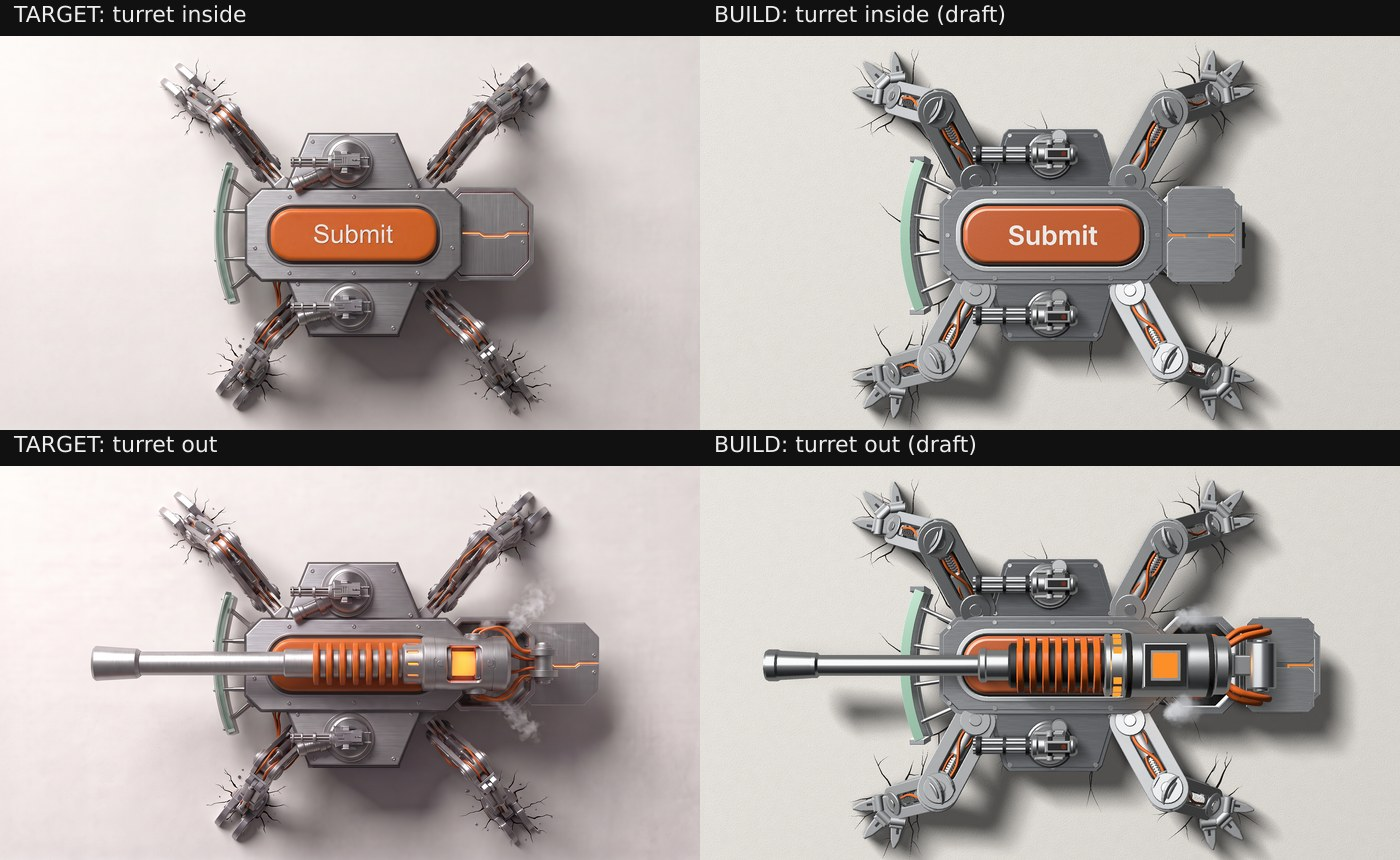
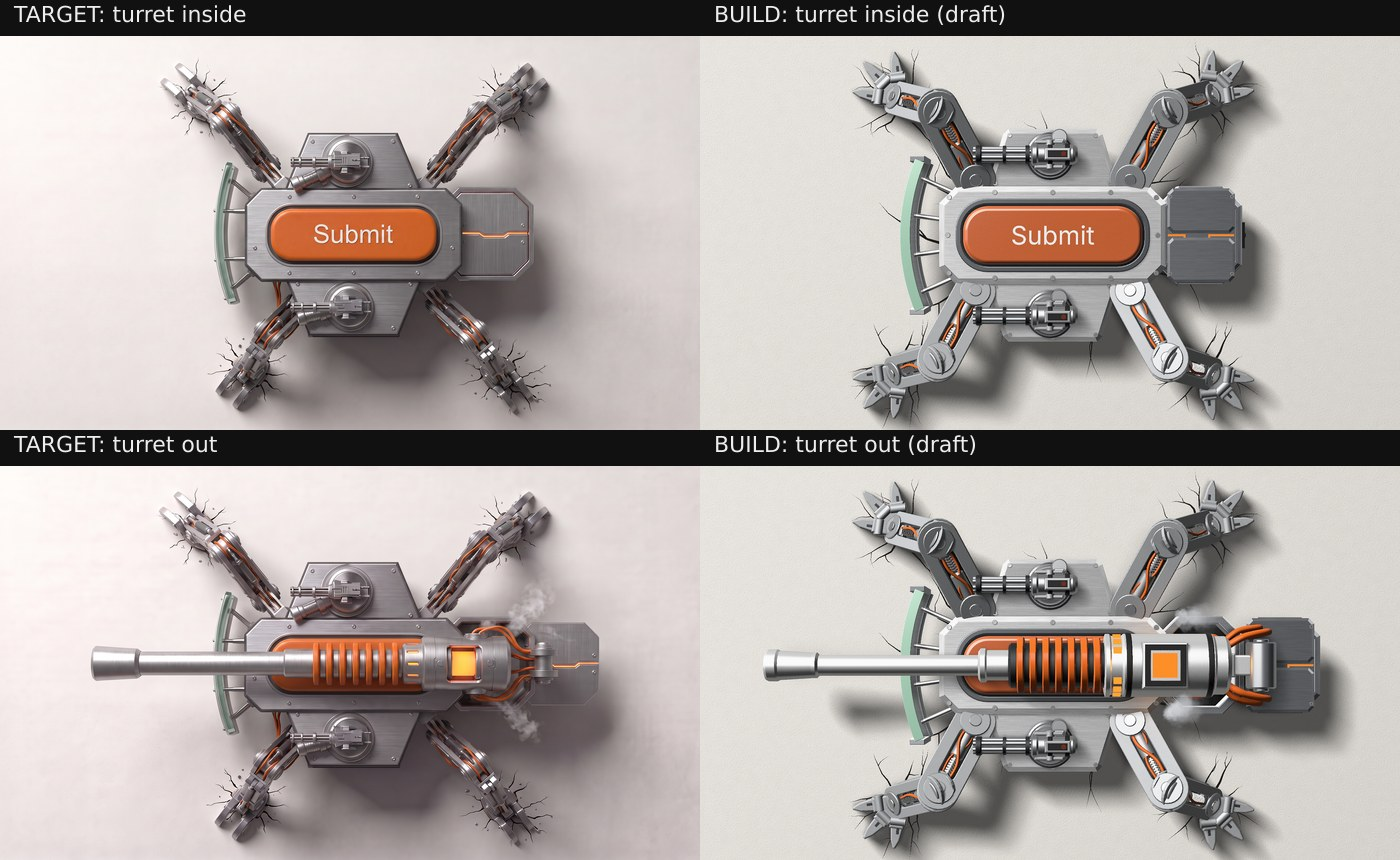
bosslook: chamfered plates that catch the key, lighter cannon, hatch lids that open red on the flank, film size sheet

Changed region(s): [[0.5221, 0.6349, 0.9521, 0.907], [0.645, 0.1512, 0.8907, 0.393]]

diff --git a/src/boss/look1/model.ts b/src/boss/look1/model.ts
@@ -1,6 +1,6 @@
 import * as THREE from 'three'
 import { roundedRect, sweep, plateProfile } from '../../shell/solids'
-import { across, along, blot, boxAt, crackStar, cutPlate, discAt, glowMaterial, hose, joined, lathe, lookKit, mesh, oct, pillOutline, plateAt, ringPlate, rod, screw, turnedAt, type V3 } from './kit'
+import { across, along, blot, boxAt, chamfer, crackStar, cutPlate, discAt, glowMaterial, hose, joined, lathe, lookKit, mesh, oct, pillOutline, plateAt, ringPlate, rod, screw, turnedAt, type V3 } from './kit'
 
 // Everything here is in the units of the target sheets (px of the 1920 wide pictures), forward along +x, z up from the ground, the hull's centre over the origin.
 
@@ -19,6 +19,9 @@ export interface Model {
   bay: THREE.Group
   shield: THREE.Group
   shieldGlass: THREE.Mesh
+  lids: THREE.Mesh[]
+  slab: THREE.Mesh
+  hatchSeam: THREE.Mesh
   shieldEdge: THREE.Mesh
   own: THREE.Material[]
   damage: [THREE.Group, THREE.Group, THREE.Group]
@@ -44,10 +47,7 @@ function hullGeo(): { plate: THREE.BufferGeometry; dark: THREE.BufferGeometry; t
   const { hx, hy, c, top, tall, belly } = HULL
   const bezelOut = pillOutline(BTN.w + 40, BTN.h + 40, BTN.r + 18)
   const bezelIn = pillOutline(BTN.w + 12, BTN.h + 12, BTN.r + 5)
-  const plate = joined([
-    plateAt(oct(hx, hy, c), top - tall, top - 5, 3),
-    plateAt(oct(hx - 11, hy - 11, c - 5), top - 6, top, 2.5)
-  ])
+  const plate = chamfer(oct(hx, hy, c), top - tall, top, 15, 7)
   const dark = joined([
     plateAt(oct(hx - 16, hy - 14, c - 6), belly, top - tall + 1, 5),
     plateAt(oct(hx - 60, hy - 40, 20), belly - 22, belly + 1, 5)
@@ -67,7 +67,7 @@ function wingGeo(side: number): { plate: THREE.BufferGeometry; dark: THREE.Buffe
     const pts: [number, number][] = [[-WING.inner + inset, y0], [WING.inner - inset, y0], [WING.outer - inset * 0.8, y1 - inset - 14], [WING.outer - 14 - inset * 0.8, y1 - inset], [-WING.outer + 14 + inset * 0.8, y1 - inset], [-WING.outer + inset * 0.8, y1 - inset - 14]]
     return side > 0 ? pts : pts.map(([x, y]) => [x, -y] as [number, number]).reverse()
   }
-  const plate = joined([plateAt(shape(0), WING.top - 22, WING.top - 5, 3), plateAt(shape(11), WING.top - 6, WING.top, 2.5)])
+  const plate = chamfer(shape(0), WING.top - 22, WING.top, 13, 6)
   const fins: THREE.BufferGeometry[] = [plateAt(shape(14), WING.top - 70, WING.top - 21, 4)]
   for (let i = 0; i < 6; i++) fins.push(plateAt(shape(8 - (i % 2) * 0), WING.top - 66 + i * 7, WING.top - 63 + i * 7, 1))
   const dark = joined(fins)
@@ -208,11 +208,20 @@ export function buildModel(): Model {
   const hatch = new THREE.Group()
   const seam = glowMaterial(0xff7a1e, 1.6)
   const ho = oct(HATCH.hx - 3, HATCH.hy - 3, HATCH.c - 2)
+  const hatchSeam = mesh(geo('hatch.seam', () => joined([boxAt(-HATCH.hx + 22, -2.6, -4.6, -24, 2.6, -2.4, 0.3), boxAt(-24, -2.6, -4.6, -19, 12, -2.4, 0.3), boxAt(-24, 7, -4.6, 44, 12, -2.4, 0.3), boxAt(40, -2.6, -4.6, 45, 12, -2.4, 0.3), boxAt(40, -2.6, -4.6, HATCH.hx - 22, 2.6, -2.4, 0.3)])), seam, false, false)
   hatch.add(
-    mesh(geo('hatch.plate', () => joined([plateAt(ho, -14, -4, 3), ringPlate(oct(HATCH.hx - 12, HATCH.hy - 12, HATCH.c - 6), oct(HATCH.hx - 19, HATCH.hy - 19, HATCH.c - 9), 3, 0.8).translate(0, 0, -4.4), plateAt(oct(HATCH.hx - 20, 58, 14, 0, -64), -5, 0, 2), plateAt(oct(HATCH.hx - 20, 58, 14, 0, 64), -5, 0, 2)])), kit.hatch),
-    mesh(geo('hatch.seam', () => joined([boxAt(-HATCH.hx + 22, -2.6, -4.6, -24, 2.6, -2.4, 0.3), boxAt(-24, -2.6, -4.6, -19, 12, -2.4, 0.3), boxAt(-24, 7, -4.6, 44, 12, -2.4, 0.3), boxAt(40, -2.6, -4.6, 45, 12, -2.4, 0.3), boxAt(40, -2.6, -4.6, HATCH.hx - 22, 2.6, -2.4, 0.3)])), seam, false, false),
+    mesh(geo('hatch.plate', () => joined([chamfer(ho, -14, -4, 10, 4.5), ringPlate(oct(HATCH.hx - 12, HATCH.hy - 12, HATCH.c - 6), oct(HATCH.hx - 19, HATCH.hy - 19, HATCH.c - 9), 3, 0.8).translate(0, 0, -4.4)])), kit.hatch),
+    hatchSeam,
     mesh(geo('hatch.pins', () => screwsAt([[-80, -100], [80, -100], [-80, 100], [80, 100]], 0, 5, 7)), kit.pin)
   )
+  const weak = glowMaterial(0xff2a12, 0)
+  const lids = [-1, 1].map((side) => {
+    const lid = mesh(geo(`hatch.lid${side}`, () => chamfer(oct(HATCH.hx - 20, 58, 14, 0, side * 64), -5, 0.6, 7, 3)), kit.hatch)
+    hatch.add(lid)
+    return lid
+  })
+  const slab = mesh(geo('hatch.weak', () => boxAt(-HATCH.hx + 26, -22, -5, HATCH.hx - 26, 22, -3.4, 0.3)), weak, false, false)
+  hatch.add(slab)
   hatch.position.set(HATCH.cx, 0, HATCH.top)
   body.add(hatch)
 
@@ -270,15 +279,15 @@ export function buildModel(): Model {
   heat.transparent = true
   heat.opacity = 0
   heat.depthWrite = false
-  root.add(mesh(cg, kit.housing), mesh(c('breechDark'), kit.bed), mesh(c('window'), window, false, false), mesh(c('slit'), slits, false, false), mesh(c('yoke'), kit.joint), mesh(c('hoses'), kit.orange))
+  root.add(mesh(cg, kit.steel), mesh(c('breechDark'), kit.bed), mesh(c('window'), window, false, false), mesh(c('slit'), slits, false, false), mesh(c('yoke'), kit.joint), mesh(c('hoses'), kit.orange))
   const ribs = new THREE.Group()
   ribs.add(mesh(c('ribCore'), kit.dark), mesh(c('ribs'), kit.orange))
   const sleeve = new THREE.Group()
-  sleeve.add(mesh(c('sleeve'), kit.housing))
+  sleeve.add(mesh(c('sleeve'), kit.steel))
   const barrel = new THREE.Group()
   const heatMesh = mesh(c('heat'), heat, false, false)
   heatMesh.scale.set(1, 1.02, 1.02)
-  barrel.add(mesh(c('barrel'), kit.joint), mesh(c('bore'), kit.bore, false, false), mesh(c('glow'), bore, false, false), heatMesh)
+  barrel.add(mesh(c('barrel'), kit.steel), mesh(c('bore'), kit.bore, false, false), mesh(c('glow'), bore, false, false), heatMesh)
   root.add(ribs, sleeve, barrel)
   root.rotation.order = 'ZYX'
   carriage.add(root)
@@ -311,10 +320,9 @@ export function buildModel(): Model {
   d3.visible = false
   body.add(d1, d2, d3)
 
-  const weak = glowMaterial(0xff3a1a, 0)
   const weakLamp = mesh(geo('weak', () => joined([discAt(11, HATCH.cx - HATCH.hx - 2, 0, 128, 140, 2, 18).rotateY(0), boxAt(HATCH.cx - HATCH.hx - 9, -34, 120, HATCH.cx - HATCH.hx - 4, 34, 146, 1.5)])), weak, false, false)
   bay.add(weakLamp)
 
-  return { body, hull, wings, button, hatch, seam, bay, shield, shieldGlass, shieldEdge, damage: [d1, d2, d3], own: [seam, window, bore, slits, heat, weak, ember], guns, legs, cannon: { carriage, root, ribs, sleeve, barrel, window, bore, slits, heat }, weak }
+  return { body, hull, wings, button, hatch, seam, bay, shield, shieldGlass, shieldEdge, lids, slab, hatchSeam, damage: [d1, d2, d3], own: [seam, window, bore, slits, heat, weak, ember], guns, legs, cannon: { carriage, root, ribs, sleeve, barrel, window, bore, slits, heat }, weak }
 }
 

diff --git a/src/boss/look1/kit.ts b/src/boss/look1/kit.ts
@@ -216,6 +216,13 @@ export function ringPlate(outer: [number, number][], inner: [number, number][], 
   return g
 }
 
+// A plate with a wide, shallow chamfer round its top: the face that looks at the light catches it, the far one falls into shade.
+export function chamfer(points: [number, number][], z0: number, z1: number, run: number, rise: number): THREE.BufferGeometry {
+  const shape = new THREE.Shape(points.map(([x, y]) => new THREE.Vector2(x, y)))
+  const g = new THREE.ExtrudeGeometry(shape, { depth: Math.max(0.1, z1 - z0 - 2 * rise), bevelEnabled: true, bevelThickness: rise, bevelSize: run, bevelOffset: -run, bevelSegments: 1, steps: 1, curveSegments: 1 })
+  return g.translate(0, 0, z0 + rise)
+}
+
 export const plateAt = (points: [number, number][], z0: number, z1: number, bevel = 3): THREE.BufferGeometry => cutPlate(points, z1 - z0, Math.min(bevel, (z1 - z0) / 2.2)).translate(0, 0, z0)
 
 export function boxAt(x0: number, y0: number, z0: number, x1: number, y1: number, z1: number, bevel = 1.5): THREE.BufferGeometry {
@@ -258,6 +265,7 @@ export interface LookKit {
   wing: THREE.MeshPhysicalMaterial
   hatch: THREE.MeshPhysicalMaterial
   bezel: THREE.MeshPhysicalMaterial
+  steel: THREE.MeshPhysicalMaterial
   dark: THREE.MeshPhysicalMaterial
   housing: THREE.MeshPhysicalMaterial
   joint: THREE.MeshPhysicalMaterial
@@ -280,12 +288,13 @@ export function lookKit(): LookKit {
   const b = bossKit()
   const m = materials()
   const plateLight = new THREE.MeshPhysicalMaterial({ color: srgb(0xa4a8ad), roughness: 0.58, metalness: 0.22, specularIntensity: 0.5 })
-  const brushed = (hex: number): THREE.MeshPhysicalMaterial => { const c = b.plate.clone(); c.color = srgb(hex); return studio(c) }
+  const brushed = (hex: number, metal: number, rough = 0.46): THREE.MeshPhysicalMaterial => { const c = b.plate.clone(); c.color = srgb(hex); c.metalness = metal; c.roughness = rough; return studio(c) }
   look = {
-    hull: brushed(0x777b80),
-    wing: brushed(0x5f6368),
-    hatch: brushed(0x8e9297),
-    bezel: studio(new THREE.MeshPhysicalMaterial({ color: srgb(0xc6cacf), roughness: 0.24, metalness: 0.95 })),
+    hull: brushed(0xc9ccd0, 0.5),
+    wing: brushed(0xb6b9bd, 0.5),
+    hatch: brushed(0x70747a, 0.7, 0.4),
+    bezel: studio(new THREE.MeshPhysicalMaterial({ color: srgb(0x595d62), roughness: 0.32, metalness: 0.85 })),
+    steel: studio(new THREE.MeshPhysicalMaterial({ color: srgb(0xd6d9dc), roughness: 0.36, metalness: 0.55, specularIntensity: 0.8 })),
     plate: b.plate,
     plateLight: studio(plateLight),
     limb: studio(new THREE.MeshPhysicalMaterial({ color: srgb(0x9a9ea3), roughness: 0.5, metalness: 0.55, specularIntensity: 0.6 })),

diff --git a/src/boss/look1/pose.ts b/src/boss/look1/pose.ts
@@ -48,6 +48,8 @@ export const WALK = { pitch: 40, band: 0.14, lift: 38, bob: 5 }
 export const FALL = { off: [0, 0.4], glass: [0.05, 0.3], drop: [0.3, 0.7] } as const
 // The finishing blast, as shares of boss.gone: when each part leaves, and when the bare button comes down on the ground.
 export const GONE = { shield: [0.04, 0.3], wings: [[0.1, 0.42], [0.16, 0.48]], guns: [[0.08, 0.38], [0.2, 0.5]], legs: [[0.22, 0.56], [0.3, 0.64], [0.36, 0.7], [0.44, 0.78]], hull: [0.55, 0.9], button: [0.62, 0.9] } as const
+// The face of the word as in the approved pictures: lighter and a little smaller than the page's own button (inter-600 at 26 px).
+export const WORD = { font: 'inter-400', px: 25 }
 export const TIMES = { form: 2.9, turret: 1.6, beaten: 1, gone: 2.13, gunKick: 0.25, glance: 0.3, hit: 0.35, heal: 0.6, beam: 0.3, recoil: 0.45, after: 1.2, weak: 1.2 }
 
 export interface LegPose { hip: [number, number, number]; knee: [number, number, number]; foot: [number, number, number]; yaw: number; up: number; yaw2: number; down: number; footYaw: number; lift: number; show: number; planted: [number, number] }
@@ -67,6 +69,8 @@ export interface Pose {
   legs: LegPose[]
   cannon: { show: boolean; x: number; z: number; elev: number; yaw: number; ribs: number; sleeve: number; barrel: number; window: number; bore: number; slits: number; heat: number; off: number }
   weak: number
+  // 0 to 1: how far the lids of the hatch have parted over the open flank.
+  weakOpen: number
   // Seconds since the cannon came down on its rest; below 0 before, large when it can no longer be told.
   lockAge: number
   // 0 whole, 1 and 2 the stages of the fight, 3 beaten.
@@ -295,7 +299,8 @@ export function poseOf(view: BossView, o: LookOptions = DEFAULTS): Pose {
     hatch: { x: HATCH.cx - HATCH.slide * hatchOpen, z: HATCH.top + 7 * bump(t, TURRET.hatch[0], TURRET.hatch[0] + 0.06) + (hatchOpen > 0 ? 3 * hatchOpen : 0), seam: 1.4 + 3 * bump(t, 0, 0.2) + 0.6 * Math.sin(now * 3) * 0.3, gone: off },
     shield: { rise: shieldUp, slide: shieldOut, flash: kick(since(now, b.shield.glancedAt), TIMES.glance), broken: lin(beaten, FALL.glass[0], FALL.glass[1]), show: f >= FORM.shield[0] },
     guns, legs, cannon,
-    weak: b.weak ? (b.weak.shownAt === null ? 0 : 1.6 + 2.6 * (0.5 + 0.5 * Math.sin((now - b.weak.shownAt) * 16))) : 0,
+    weak: b.weak ? (b.weak.shownAt === null ? 0 : 2.2 + 3 * (0.5 + 0.5 * Math.sin((now - b.weak.shownAt) * 16))) : 0,
+    weakOpen: b.weak && b.weak.shownAt !== null && beaten <= 0 ? smooth(lin(now - b.weak.shownAt, 0, 0.18)) : 0,
     damage: f < 1 ? 0 : beaten > 0.02 ? 3 : b.stage, hurt, heal: healNow, sag: sagPart, gone, away, blow, lockAge, word
   }
 }

diff --git a/tools/bosslook/main.ts b/tools/bosslook/main.ts
@@ -6,12 +6,11 @@ import type { BossView } from '../../src/boss/view'
 import { label } from '../../src/boss/body'
 import { restPose } from '../../src/cursor/body'
 import { homeDistance } from '../../src/stage/camera'
-import { TYPE } from '../../src/shell/parts'
 import type { Emitter } from '../../src/real/types'
 import type { Frame } from '../../src/stage/stage'
 import type { CameraPose, Shape } from '../../src/stage/types'
 import { tierSamples } from '../../src/config'
-import { wordAt } from '../../src/boss/look1'
+import { WORD, wordAt } from '../../src/boss/look1'
 
 interface Spec { view: BossView; cx: number; cy: number; zoom: number; width: number; height: number; tier?: string; level?: 'low' | 'medium' | 'high'; word?: boolean; options?: Record<string, unknown> }
 
@@ -33,7 +32,7 @@ async function render(spec: Spec): Promise<{ triangles: number; drawCalls: numbe
   }
   const list: Shape[] = []
   const w = wordAt(spec.view)
-  if (spec.word !== false && w.show) list.push(label('boss-word', 'boss-body', 'copy:step4.submit', w.x, w.y, TYPE.button, w.z, 'inkLight', w.rot))
+  if (spec.word !== false && w.show) list.push(label('boss-word', 'boss-body', 'copy:step4.submit', w.x, w.y, WORD, w.z, 'inkLight', w.rot))
   const frame: Frame = { list, cursor: restPose(-400, -400, { onPage: false }), turn: 0, scroll: 0, page: 'bosslook', view: null, time: spec.view.time }
   const pose: CameraPose = { eye: [spec.cx - 960, 540 - spec.cy, homeDistance() / spec.zoom], target: [spec.cx - 960, 540 - spec.cy, 0], fov: 20 }
   app.engine.setSize(spec.width, spec.height)

diff --git a/src/boss/look1/index.ts b/src/boss/look1/index.ts
@@ -8,7 +8,7 @@ import { setGlow } from './kit'
 import { makeFx, type Fx } from './fx'
 import { poseGun } from './gun'
 
-export { poseOf, muzzleOf, bigMuzzleOf, weakOf, wordAt, SIZE, K, FALL, FORM, GONE, TURRET, TIMES, DEFAULTS } from './pose'
+export { poseOf, muzzleOf, bigMuzzleOf, weakOf, wordAt, SIZE, K, FALL, FORM, GONE, TURRET, TIMES, WORD, DEFAULTS } from './pose'
 export type { LookOptions, Pose } from './pose'
 export { EVENTS } from './events'
 export { makeGun, poseGun } from './gun'
@@ -148,6 +148,9 @@ function apply(m: Model, legsRoot: THREE.Group, p: Pose): void {
     setGlow(c.heat, 1 + 3 * p.cannon.heat)
   }
   setGlow(m.weak, p.weak)
+  m.lids.forEach((l, i) => { l.position.y = (i === 0 ? -1 : 1) * 17 * p.weakOpen })
+  m.slab.visible = p.weakOpen > 0
+  m.hatchSeam.visible = p.weakOpen < 0.5
   const burnt = p.away.hull > 0.5
   m.damage[0].visible = p.damage >= 1 && !burnt
   m.damage[1].visible = p.damage >= 2 && !burnt

diff --git a/src/boss/look1/fx.ts b/src/boss/look1/fx.ts
@@ -497,9 +497,6 @@ export function makeFx(o: LookOptions, level0: Level): Fx {
         const age = now - b.weak.shownAt
         const beat = 0.5 + 0.5 * Math.sin(age * 16)
         const s = 44 + 14 * beat
-        marks.add(wx2, wy2, 80, s * 1.5, s * 1.5, 0, [0.95, 0.12, 0.03], 0.75 + 0.25 * beat)
-        const grow = (age * 1.4) % 1
-        marks.add(wx2, wy2, 80, s * (1.5 + 1.3 * grow), s * (1.5 + 1.3 * grow), 0, [0.95, 0.12, 0.03], 0.6 * (1 - grow))
         rings.add(wx2, wy2, 64, s, s, 0, [1, 0.3, 0.12], 1.2 + 0.8 * beat)
         glow.add(wx2, wy2, 63, 54, 54, 0, [1, 0.25, 0.1], 0.5 + 0.5 * beat)
         lamp(wx2, wy2, 60, [1, 0.3, 0.12], 0.2 + 0.15 * beat, 120)

diff --git a/pipeline/change002/bosslook.md b/pipeline/change002/bosslook.md
@@ -1,0 +1,120 @@
+# Look 1 of the boss: notes of b_bosslook_builder
+
+Branch `agent/b-bosslook`, made from `origin/agent/b-boss`. Every claim is marked MEASURED (I ran or rendered it), STATED (someone told me) or UNKNOWN.
+
+## What is built
+
+A module in `src/boss/look1/` that draws the boss from a `BossView` and nothing else.
+
+| File | What it holds |
+| --- | --- |
+| `numbers.ts` | The sizes of the machine, in px of the 1920 wide target sheets. `K = 226 / 590` turns them into page px. |
+| `kit.ts` | Shapes and the materials of the look (brushed plates, bright bezel, lacquer button, frosted glass, orange plastic, soot). |
+| `model.ts` | The body: hull, bezel, button, two wings, two rotary guns, hatch, bay, shield, four legs with knee and three-finger claw, the cannon, the marks of damage. |
+| `gun.ts` | The rotary gun on its domed mount: `makeGun()`, `poseGun()`. The arena uses the same gun for the four corners. |
+| `pose.ts` | `poseOf(view, options)`: every place, angle and strength, with no three.js in it. Also `muzzleOf`, `bigMuzzleOf`, `weakOf`, `wordAt`, and the tables `FORM`, `TURRET`, `FALL`, `GONE`, `WALK`, `TIMES`. |
+| `fx.ts` | Everything that is not solid: dust, smoke, steam, sparks, flashes, the crack stars under the feet, bullets, hits, the tell line and the beam of the big cannon, the shards of the shield, the finishing blast. |
+| `events.ts` | `EVENTS`: on which moment each event lands and how long its sound may be. |
+| `index.ts` | `makeBoss(ctx)`. |
+
+The eight parts of the brief:
+
+1. Body with real height, in the four materials. MEASURED: `proof/bosslook/states.jpg`.
+2. Forming, `boss.form` 0 to 1: the button cracks its socket, shoots out, the hull closes on it in the air, he lands, wings, guns and four legs come out one after the other, he stands up, the shield rises. The word stays centred and level on the button the whole way (MEASURED by test). `proof/bosslook/forming.jpg`.
+3. Turret beat, `boss.turret` 0 to 1: hatch slides, the cannon climbs, swings forward over the button, the barrel runs out, it comes down on its rest at turret 0.94 with a kick, sparks and a ring, the bore glows. `proof/bosslook/turret.jpg`.
+4. Fight: heading, legs that walk by `boss.walked` on planted feet, guns that aim, tell (lamp and spin), kick and flash at `firedAt`, shield flash, open flank ringed in red, hit, damage by stage, heal pulse. `proof/bosslook/walking.jpg`, `firing.jpg`, `damage.jpg`.
+5. Big cannon: thin tell line in the air at muzzle height, bore and window that charge, body that braces and trembles, beam from x0, y0 to x1, y1 about `width` thick for 0.3 s, recoil, heat on the barrel, smoke. `proof/bosslook/blast.jpg`.
+6. Bullets: round glowing orange balls, 19 px, short trail, a soft shade on the ground. Hits by kind (`round`, `glance`, `arrow`; `solid` is the arena's). Darts are left as today: the look does not draw them.
+7. Beaten, `boss.beaten` 0 to 1 over the 1.0 s fall: the cannon is blown off (0 to 0.4), the glass bursts (0.05 to 0.3), the body drops on its belly (0.3 to 0.7) with dust, he smokes, the button lies clear with the word in its centre. `proof/bosslook/beaten.jpg`. The guide picture `references/drafts/round-9/LOOK-1-STATE-3-beaten.png` is beside it and is NOT a picked target.
+8. The cursor is not redrawn.
+
+Added after the brief, a first reading only, not a design that was looked at with the arrow's beam: `boss.gone` 0 to 1. The body burns white, the glass frame, guns, wings and legs are torn off down the beam one by one, the hull burns away with a last flash, the bare button comes down on the ground at gone 0.9. `proof/bosslook/gone.jpg`.
+
+## How it plugs in
+
+```ts
+import { makeBoss } from '../boss/look1'
+const boss = makeBoss({ seed, level })      // all optional
+scene.add(boss.object)                       // page px, y up, origin at the middle of the 1920 by 1080 page
+boss.pose(view, dt, light)                   // each frame; light is the page's emitter hook, optional
+boss.setLevel('low' | 'medium' | 'high')
+boss.dispose()
+```
+
+Options: `seed`, `socket` (where the button was, default 960, 960), `home` (960, 548), `ground` (draw my own cracks on the ground), `pit` (draw my own hole; off by default, the arena draws the hole, the lip and its cracks; the chunks thrown out and the crack stars under the feet are mine).
+
+The page draws the word itself with its own label at `wordAt(view)` (x, y in page px, z, rot, show). STATED by b_boss_builder at 23:30Z: the module is wired behind `LOOK1_ON` in `src/boss/tune.ts`, still false; he had not yet looked at a picture with the switch on.
+
+I edited nothing outside `src/boss/look1/`, `tools/bosslook*`, `tests/bosslook-pose.test.ts` and `pipeline/change002/`. No NEEDS: commit was necessary.
+
+## The frame of each event
+
+Seconds are for the live site: forming 2.90 s, turret beat 1.60 s, fall 1.0 s, finishing blast 2.13 s (the last four STATED by b_boss_builder). At 60 frames a second one frame is 0.0167 s.
+
+| Event | Lands on | Seconds after its start | Sound may last |
+| --- | --- | --- | --- |
+| break-out | form 0.06, the button leaves the socket | 0.17 s (frame 10) | 1.4 s |
+| turret-rise | turret 0.02, the hatch starts | 0.03 s (frame 2) | 1.25 s |
+| turret-lock | fired by the fight at turret 1.0; the cannon is down at 0.94 | 1.50 s for the picture, 1.60 s for the event (frames 90 and 96) | 0.7 s |
+| bullet-fire | `guns[i].firedAt` | frame 0; flash 0.07 s, kick 0.25 s | 0.3 s |
+| shield-glance | `shield.glancedAt` | frame 0; flash 0.3 s | 0.35 s |
+| boss-heal | `healedAt` | frame 0; pulse 0.6 s | 0.6 s |
+| big-tell | `big.tell` leaves 0 | frame 0; as long as the tell | the length of the tell, ending on big-fire |
+| big-fire | `big.firedAt` | frame 0; beam 0.3 s, recoil 0.45 s, heat and smoke 1.2 s | 1.5 s |
+| turret-off | beaten leaves 0 | frame 0; the cannon flies over 0.4 s | 0.9 s |
+| boss-fall | beaten 0.7, the belly hits the ground | 0.70 s (frame 42) | 0.8 s |
+| finish-fire | gone leaves 0 | frame 0; parts leave from 0.09 s to 1.66 s | 2.1 s |
+| boss-gone | gone 0.9, the hull is burnt away | 1.92 s (frame 115) | 1.0 s |
+| button-down | gone 0.9, the button is on the ground | 1.92 s (frame 115) | 0.4 s |
+
+Offers the fight does not emit today (STATED by b_boss_builder): body-clamp at form 0.20 (0.58 s), body-land at form 0.34 (0.99 s), leg-stomp at 1.80, 2.03, 2.26 and 2.49 s.
+
+## Numbers
+
+MEASURED by `tests/bosslook-pose.test.ts`:
+
+- The side guns' muzzles stand 79 px to each side of the middle and 75 px ahead of their mounts; the big muzzle 274 px ahead of the middle. Heights about 81 px (guns) and 103 px (big).
+- Planted feet do not move while they are planted. On straight lines at the home heading at least two feet stand at all times.
+- Walking a diagonal while turning, all four feet are in the air in under 10% of the frames (about 5 to 9%). This is below the bar: see the end.
+- The same view gives the same pose, however often it is asked. No clock and no dice in the folder.
+
+MEASURED by `node tools/bosslook.mjs counts` on the helper machine (headless browser, software renderer, 1920 by 1080, low level; `proof/bosslook/counts.json`):
+
+| State | Triangles of the boss alone | Draws of the boss alone | Whole frame, all passes | ms with him | ms without him |
+| --- | --- | --- | --- | --- | --- |
+| turret inside | 66,232 | 102 | 131,238 tris, 201 draws | 1965.7 | 1744.8 |
+| turret out | 75,616 | 117 | 148,128 tris, 223 draws | 1925.8 | 1752.8 |
+| forming, form 0.36 | 11,226 | 19 | 22,768 tris, 39 draws | 1760.3 | 1728.8 |
+| fight frame, 12 bullets, a gun firing, stage 2 | 80,920 | 130 | 156,104 tris, 239 draws | 1916.5 | 1700.5 |
+| big blast at 0.1 s | 75,738 | 119 | 148,250 tris, 225 draws | 1923.3 | 1710.8 |
+| beaten 0.2 | 77,708 | 129 | 151,242 tris, 238 draws | 1907.7 | 1715.1 |
+
+The ms are the software renderer's, about 100 times slower than a real card, so only the two columns against each other mean anything: he adds 2% (forming) to 13% (fight) to a low level frame there. The frame time on a real graphics card is UNKNOWN. Medium and high levels: see the report, UNKNOWN until that run is in the json.
+
+## What differs from the pictures, and why
+
+- Legs: mine are shorter and heavier, bent at a knee, with a three-finger claw (asked by the Builder at 22:52Z). They are paler than the picture's.
+- The word Submit: the page's own weight and size, not the picture's lighter word (asked).
+- The ground: the site's ceramic, not the picture's pinker ground (asked).
+- Hull: darker plates with a bright bezel, but still less contrast between bezel, wings and hatch than the picture.
+- Turret out: my breech window is a plain orange square; the picture's has a softer glow and more hoses. My steam is two small plumes; the picture's is longer.
+- The shield is a little taller and greener than the picture's.
+- Shadows are the site's: longer and harder than the picture's soft ones.
+- Beaten: the guide shows the button with the hull still whole around it and the body charred; mine drops on its belly, splays its legs, loses cannon and glass, and smokes. The guide is not picked.
+
+## What is off or below the bar
+
+- A lifted upper leg on the side away from the key light turns dark for the length of its step (MEASURED in `walking.jpg`). The site's room is dark beside its one soft light, so a plate tilted away from it loses its reflection. I made the plates less metallic, which took it from black to dark grey; it still shows.
+- All four feet in the air in 5 to 9% of frames on a diagonal while turning. A step lasts about 0.06 s at 190 px a second, so it does not read as a hop, but the bar was two feet down always.
+- Stage 1 damage (ember cracks, cracked glass, two vents of smoke, a spark now and then) reads on the sheet; at his real size on the page it is small. Stage 2 (fire, torn plates, loose hoses) reads better.
+- The forming works and lands hard, but it does not yet feel as powerful as the brief asks: no camera shake is mine to give, the flash at the landing is small on a pale ground.
+- Additive glows nearly vanish on the pale ground (MEASURED). The rings that must read (open flank, last flash) are drawn with normal blending instead.
+- Draw calls: 102 to 130 for the boss alone. The parts that never move against each other could be joined into fewer meshes; not done.
+- Levels and tiers: the three live levels thin out the thrown chunks, the puffs of smoke and the lamps (low 10, 40, 2; medium 18, 90, 5; high 26, 150, 8); the film draws 26, 150, 10 at every tier and the site's finishing does the rest. The solid shapes are the same at every level, which is why the low level still costs 66 to 81 thousand triangles. The harness rendered every sheet at the draft tier; renders at the higher film tiers are UNKNOWN, not run.
+- `boss.gone`: a first reading, never seen together with the arrow's beam or the arena. The power-up glow round the arrow is not mine and not built here.
+- Darts: not drawn by the look (left as today). The flattened cursor: nothing found missing, but I did not render it beside the boss; UNKNOWN.
+- `tests/cut-of-build.test.ts` is red on branches until the Builder runs the cut on the merged tree (STATED by the brief); left alone.
+
+## The harness
+
+`node tools/bosslook.mjs <sets...> [--tier draft]` with sets `states forming turret walking firing blast damage beaten gone page counts`. It builds the views by hand, renders the boss alone through the site's real light and finishing in a headless browser, and writes one sheet per set under `pipeline/change002/proof/bosslook/`, target beside render where there is a target, none wider than 1400 px. Raw frames go to `out/work/bosslook/` and are not committed.
